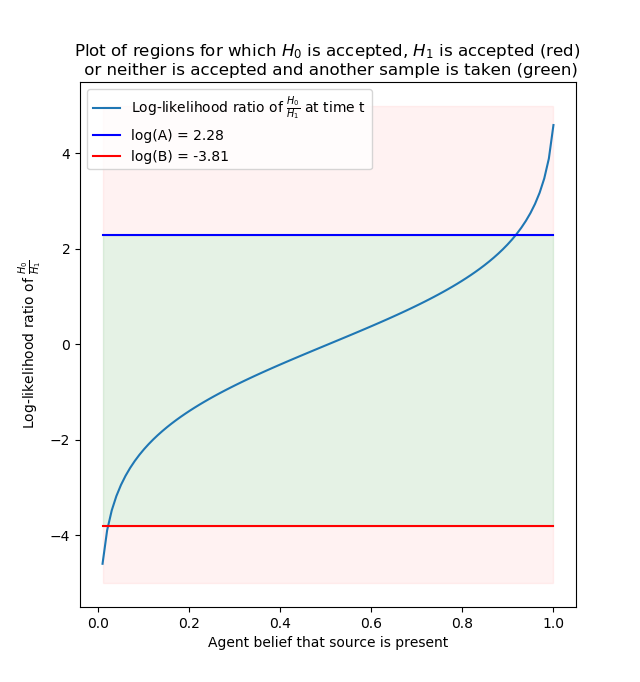
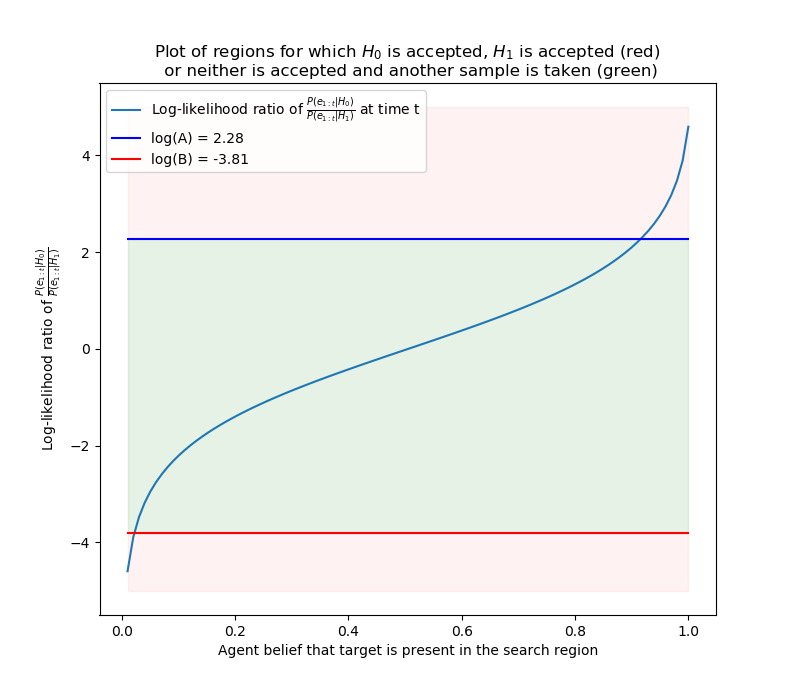
Finished first draft SPRT subsection

diff --git a/Chapters/MultiAgentTargetDetection/InitialAgentDesign/SearchTermination.tex b/Chapters/MultiAgentTargetDetection/InitialAgentDesign/SearchTermination.tex
@@ -39,14 +39,18 @@ In practice, we often took log transforms of the values used in the SPRT, to sim
 \subsection{Analysis of Search Termination Criteria}
 The two parameters, $\alpha$ and $\beta$ that the user needs to specify to perform the SPRT need to be chosen carefully and depend on the context of the search. As in the standard hypothesis testing context, it is important to consider the significance level and power of the test to ensure that they reflect the severity of drawing an incorrect conclusion. They can also help to perform analysis on how well the agent could perform, since setting a high threshold means that the agent may have to take a minimum number of samples at the correct target location in order to choose $H_0$ or $H_1$. \par
 
-Figure \ref{fig:SPRTCutoffFunctionOfAlphaAndBeta} shows how A and B vary as functions of the parameters $\alpha$ and $\beta$ on a log scale. If the log-likelihood ratio $\frac{H_0}{H_1}$ lies in this region, another sample is taken. A projection of this plot onto the axes that vary $\alpha$ for fixed $\beta$ in figure (a) and $\beta$ for fixed $\alpha$ in figure (b) is shown in figure \ref{fig:VaryingSPRTParameters}.
+Figure \ref{fig:SPRTCutoffFunctionOfAlphaAndBeta} shows how A and B vary as functions of the parameters $\alpha$ and $\beta$ on a log scale\footnote{Tables of the values of A and B for varying for varying Type \Romannum{1} rates ($\alpha$) and Type \Romannum{2} ($\beta$) error rates may be referred to in Appendix \ref{chap:AppendixOne}.}. If the log-likelihood ratio of the data lies in between the red and blue surfaces on the graph, another sample is taken. A projection of this plot is shown in Figure \ref{fig:VaryingSPRTParameters}:
+\begin{enumerate}[label=(\alph*)]
+    \item shows a plot of how varying the Type \Romannum{1} error rate $\alpha$ for a fixed Type\Romannum {2} error rate $\beta = 0.07$ affects the decision boundaries defined by A and B.
+    \item shows a plot of how varying the Type\Romannum{2} error rate $\beta$ for a fixed Type\Romannum{1} error rate $\alpha = 0.1$ affects the decision boundaries defined by A and B.
+\end{enumerate}
+
+These plots strongly reflect the intuition behind the decision boundaries. The lower the probability of making either a Type \Romannum{1} or Type \Romannum{2} error, the further apart the decision boundary becomes, meaning the likelihood ratio must be very far apart from 1, which appears as 0 on the log scale. A likelihood ratio of 1 indicates maximum uncertainty. It is also possible to see that the surfaces meet when $\alpha=0.5$, $\beta=0.5$, which reflects the fact that immediately terminating the search will give a 0.5 probability of returning a false positive or false negative. \par
+
+\note{Might be better off editing these images with explicit labels showing regions in which H0 and H1 will be accepted.}
+Figure \ref{fig:VaryingSPRTParameters} shows the regions in which the SPRT will elect to take another sample (the green shaded region), to accept $H_0$, the upper red shaded region, and to accept $H_1$, the lower red shaded region. The blue line shows the log-likelihood ratio of $\frac{(e_{1:t} | H_0)}{p(e_{1:t} | H_1)}$ as a function of the agent belief that the target is present in the search region.
 
 
-Figure \ref{fig:VaryingSPRTParameters} shows two plots, which show 
-
-both of which plot  plots of how varying the significance and power of the test affect the values of $A$ and $B$, which determine when the search will be terminated.
-
-Tables \ref{table:SPRTA} and \ref{table:SPRTB} show values of A and B, the upper and lower thresholds, for varying $\alpha$ and $\beta$, for which the search will be cutoff. 
 \par
 %varying the type \Romannum{1} error rate for a fixed type \Romannum{2} error rate affects the upper and lower threshold for cutting off the search. Figure \ref{fig:SPRTVaryingT2} shows how the varying the type \Romannum{2} error rate for a fixed type \Romannum{1} error rate affects the upper and lower threshold for cutting off the search. Note that as the varying error rate increases on the x-axis, the decision boundaries come closer together, reflecting the intuition that we are more willing to accept a mistaken conclusion.
 %\begin{figure}

diff --git a/Appendix1/appendix1.tex b/Appendix1/appendix1.tex
@@ -1,10 +1,10 @@
 %!TEX root = ../thesis.tex
 % ******************************* Thesis Appendix A ****************************
-\chapter{Tables} 
+\chapter{Tables}\label{chap:AppendixOne}
 
 \section{Sequential Probability Ratio Test Tables of A and B as functions of the parameters  \texorpdfstring{$\alpha$} and \texorpdfstring{$\beta$}.}
 
-\begin{table}[!ht]\label{table:SPRTA} 
+\begin{table}[!ht]
 \centering
 \caption{A table of values of A=$\frac{1 - \beta}{\alpha}$, where $\alpha$ is the significance and $1 - \beta$  is the power of the Sequential Probability Ratio Test (SPRT)}
 \begin{tabular}{| c |cccccccccc|} 
@@ -23,11 +23,12 @@
 0.5 & 1.90 & 1.80 & 1.70 & 1.60 & 1.50 & 1.40 & 1.30 & 1.20 & 1.10 & 1.00 \\
 \bottomrule
 \end{tabular}
+\label{table:SPRTA}
 \end{table}
 
 
 
-\begin{table}[!ht]\label{table:SPRTB} 
+\begin{table}[!ht]
 \centering
 \caption{A table of values of B=$\frac{\beta}{1-\alpha}$, where $\alpha$ is the significance and $1 - \beta$ is the power of the Sequential Probability Ratio Test (SPRT)}
 \begin{tabular}{| c |cccccccccc|} 
@@ -46,4 +47,5 @@
 0.5 & 0.10 & 0.20 & 0.30 & 0.40 & 0.50 & 0.60 & 0.70 & 0.80 & 0.90 & 1.00 \\
 \bottomrule
 \end{tabular}
+\label{table:SPRTB}
 \end{table}

diff --git a/Preamble/preamble.tex b/Preamble/preamble.tex
@@ -221,6 +221,8 @@
 \usepackage{diagbox}
 \usepackage{booktabs,makecell}
 
+%For a,b,c enumeration
+\usepackage{enumitem}
 
 
 \usepackage{amsmath}
